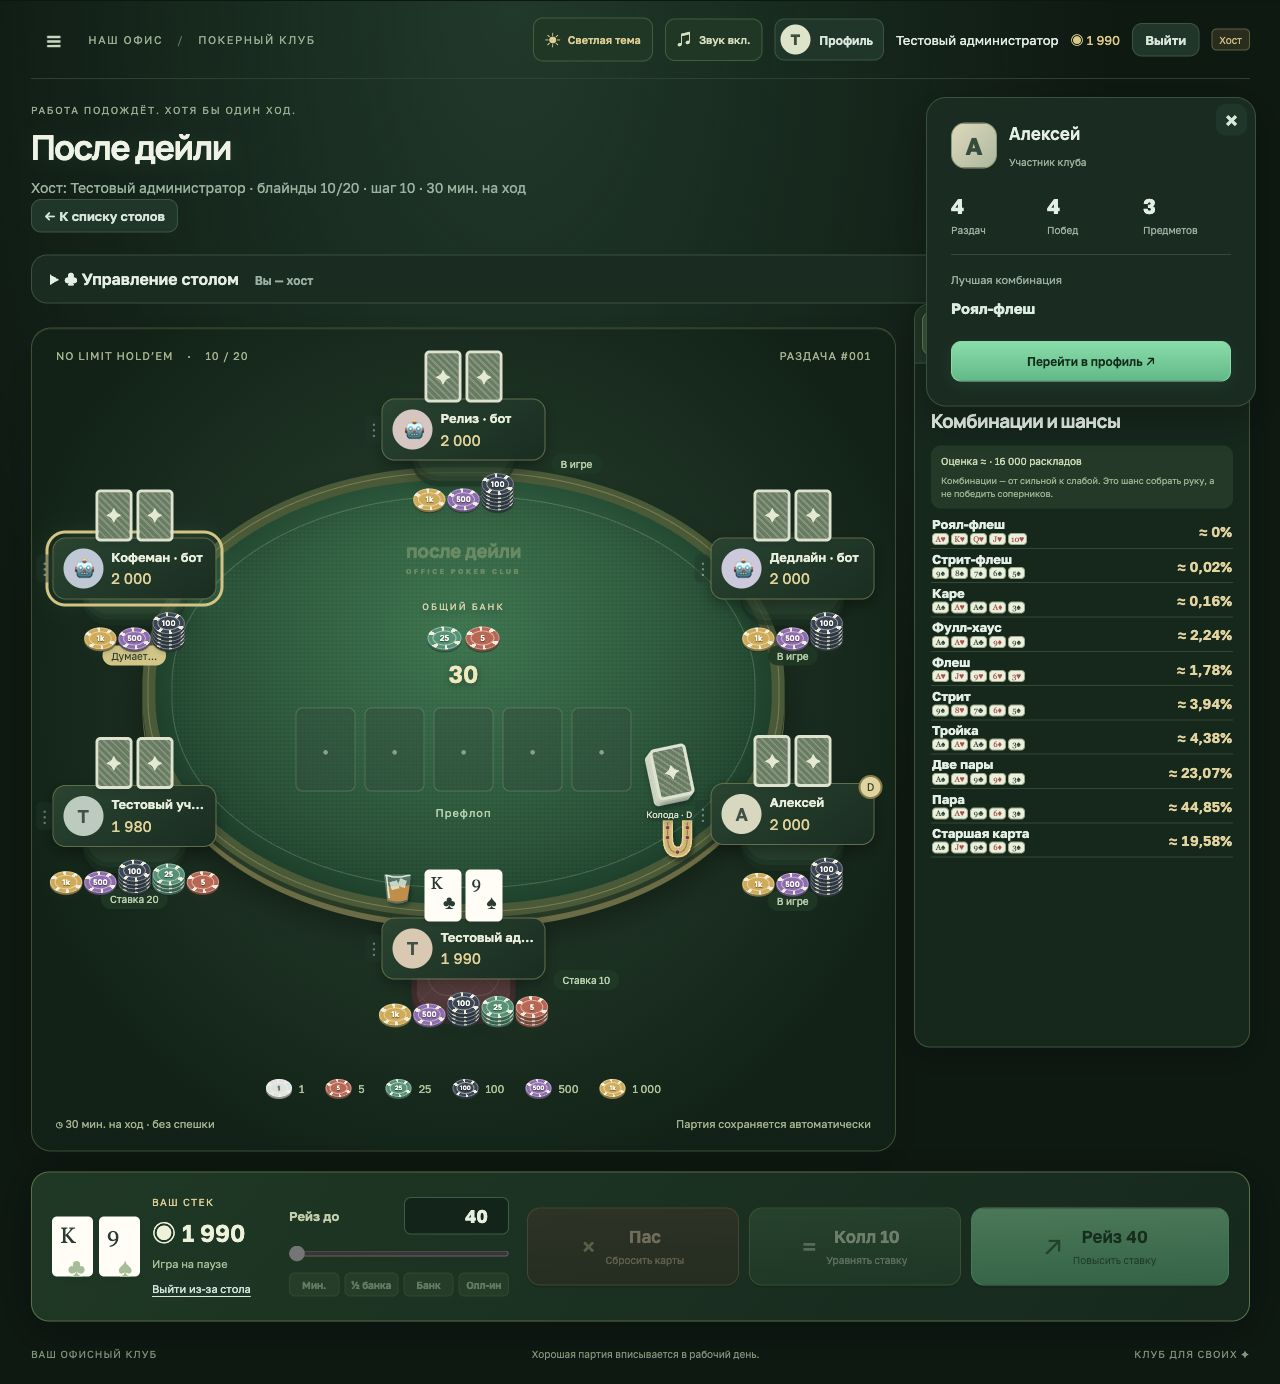
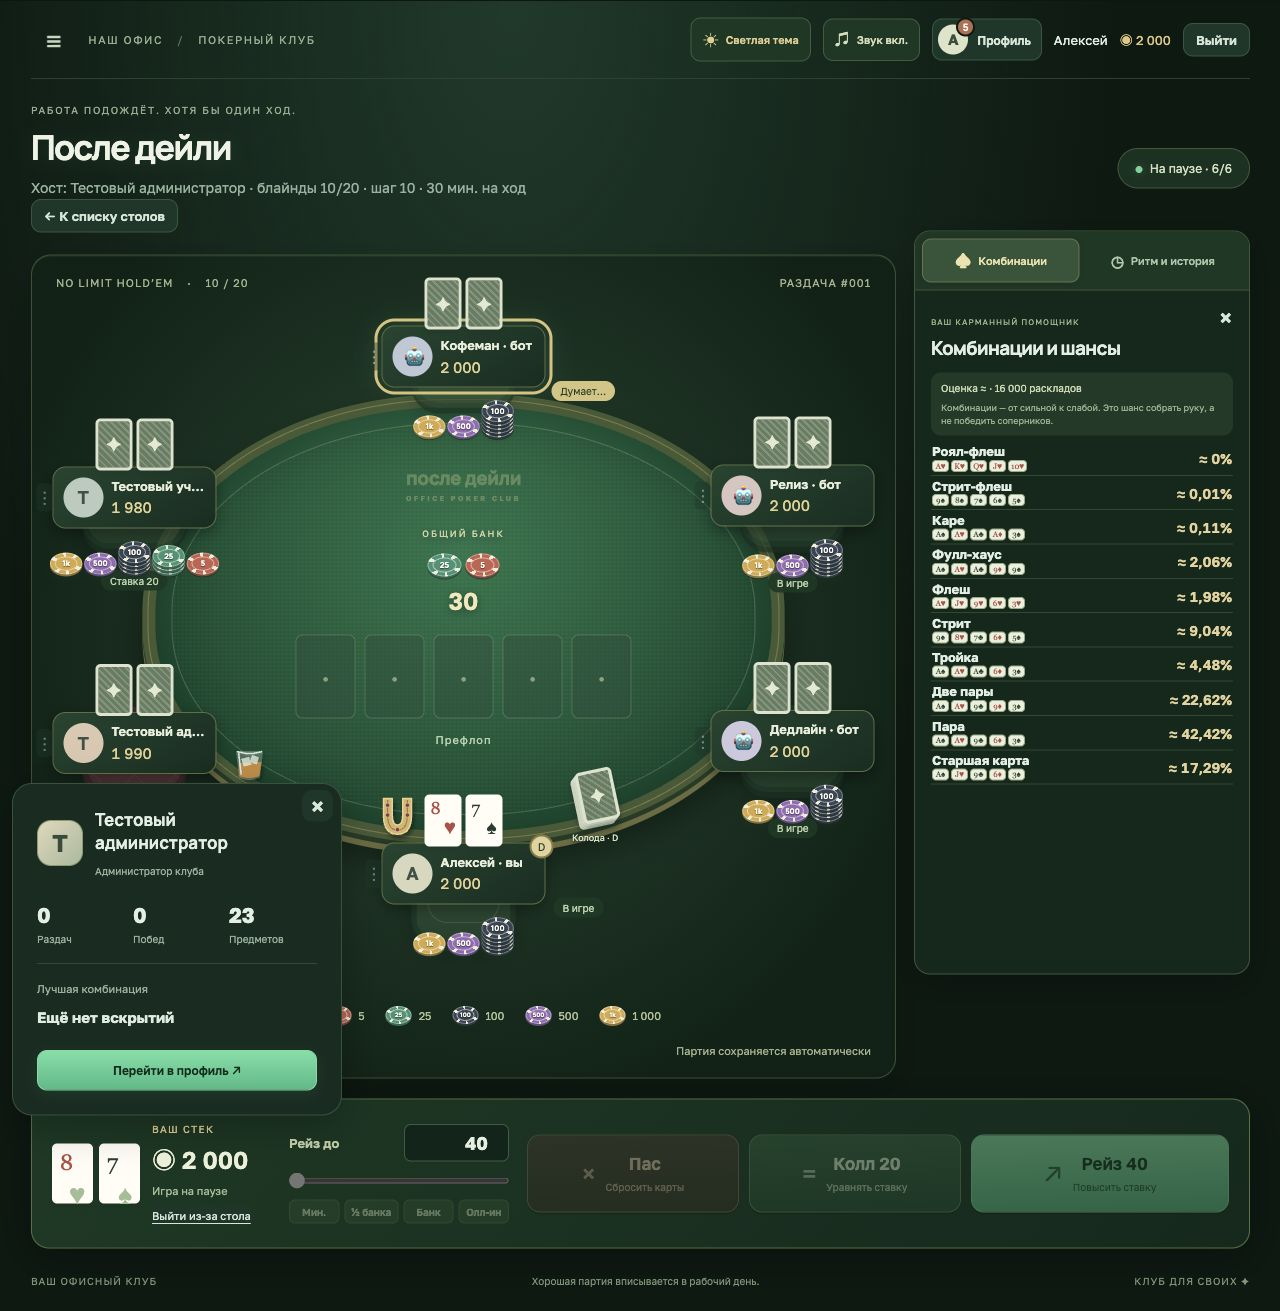
Anchor mini profiles beside their player cards

diff --git a/src/PublicProfile.tsx b/src/PublicProfile.tsx
@@ -1,4 +1,4 @@
-import { useEffect, useRef, useState } from "react";
+import { useEffect, useLayoutEffect, useRef, useState } from "react";
 import type { PublicPlayerProfile } from "../shared/profile";
 import { profileCombinations } from "../shared/profile";
 import { ProfileOverview, CombinationTable } from "./ProfileOverview";
@@ -84,8 +84,85 @@ export function MiniProfile({
   const { data, error } = usePublicProfile(id, request);
   const root = useRef<HTMLElement>(null),
     close = useRef<HTMLButtonElement>(null);
+  const [position, setPosition] = useState<{
+    left: number;
+    top: number;
+  } | null>(null);
+  useLayoutEffect(() => {
+    const trigger = document.getElementById(`player-profile-${id}`);
+    const anchor = trigger?.closest<HTMLElement>(".player");
+    const popup = root.current;
+    if (!anchor || !popup) {
+      onClose();
+      return;
+    }
+    const update = () => {
+      if (!anchor.isConnected) {
+        onClose();
+        return;
+      }
+      const card = anchor.getBoundingClientRect(),
+        box = popup.getBoundingClientRect();
+      const padding = 12,
+        gap = 10,
+        width = window.innerWidth,
+        height = window.innerHeight;
+      if (
+        card.bottom < padding ||
+        card.top > height - padding ||
+        card.right < padding ||
+        card.left > width - padding
+      ) {
+        onClose();
+        return;
+      }
+      const clamp = (value: number, max: number) =>
+        Math.max(padding, Math.min(value, max - padding));
+      let left = clamp(
+        card.left + (card.width - box.width) / 2,
+        width - box.width,
+      );
+      let top: number;
+      if (card.bottom + gap + box.height <= height - padding)
+        top = card.bottom + gap;
+      else if (card.top - gap - box.height >= padding)
+        top = card.top - gap - box.height;
+      else if (card.right + gap + box.width <= width - padding) {
+        left = card.right + gap;
+        top = clamp(
+          card.top + (card.height - box.height) / 2,
+          height - box.height,
+        );
+      } else if (card.left - gap - box.width >= padding) {
+        left = card.left - gap - box.width;
+        top = clamp(
+          card.top + (card.height - box.height) / 2,
+          height - box.height,
+        );
+      } else top = clamp(card.bottom + gap, height - box.height);
+      const next = { left: Math.round(left), top: Math.round(top) };
+      setPosition((previous) =>
+        previous?.left === next.left && previous.top === next.top
+          ? previous
+          : next,
+      );
+    };
+    update();
+    const observer = new ResizeObserver(update);
+    observer.observe(popup);
+    observer.observe(anchor);
+    const scene = anchor.closest(".table-scene");
+    if (scene) observer.observe(scene);
+    window.addEventListener("resize", update);
+    document.addEventListener("scroll", update, true);
+    return () => {
+      observer.disconnect();
+      window.removeEventListener("resize", update);
+      document.removeEventListener("scroll", update, true);
+    };
+  }, [id]);
   useEffect(() => {
-    close.current?.focus();
+    close.current?.focus({ preventScroll: true });
     const outside = (event: PointerEvent) => {
       if (!root.current?.contains(event.target as Node)) onClose();
     };
@@ -93,7 +170,9 @@ export function MiniProfile({
       if (event.key === "Escape") {
         event.stopPropagation();
         onClose();
-        document.getElementById(`player-profile-${id}`)?.focus();
+        document
+          .getElementById(`player-profile-${id}`)
+          ?.focus({ preventScroll: true });
       }
     };
     document.addEventListener("pointerdown", outside);
@@ -109,6 +188,11 @@ export function MiniProfile({
   return (
     <aside
       ref={root}
+      style={{
+        left: position?.left ?? 0,
+        top: position?.top ?? 0,
+        visibility: position ? "visible" : "hidden",
+      }}
       className="mini-profile club-panel"
       role="dialog"
       aria-modal="false"

diff --git a/src/profile.css b/src/profile.css
@@ -572,12 +572,10 @@
 }
 .mini-profile {
   position: fixed;
-  right: 24px;
-  top: 96px;
   z-index: 90;
   width: 330px;
   max-width: calc(100vw - 24px);
-  max-height: calc(100dvh - 115px);
+  max-height: calc(100dvh - 24px);
   overflow: auto;
   padding: 24px;
   box-shadow: 0 12px 40px #0004;
@@ -645,10 +643,4 @@
 .mini-profile > .primary {
   width: 100%;
   font-size: 12px;
-}
-@media (max-width: 760px) {
-  .mini-profile {
-    top: 82px;
-    right: 12px;
-  }
 }

diff --git a/README.md b/README.md
@@ -97,7 +97,7 @@ HOST=0.0.0.0 npm start
 
 Кнопки верхней панели сохраняют названия и места на всех страницах: «Все столы», «Инвентарь», «Магазин», «Аккаунты игроков» у администратора и профиль. Текущая страница отмечается приглушённой нажатой кнопкой, которая не переключает на другой раздел.
 
-Нажмите на плашку человека за столом, чтобы открыть **мини-профиль**: имя, число раздач, побед и предметов, лучшая собранная комбинация. Окно не уводит со стола; закрывается крестиком, Escape или кликом снаружи. Кнопка «Перейти в профиль» открывает полную статистику игрока: баланс, показатели, количество предметов каждой редкости и таблицу комбинаций. Чужие подарки, логин и управление инвентарём не передаются. Мини-профиль и полный профиль обновляют статистику каждые пять секунд. Звуки активного стола и кнопка быстрого возврата продолжают работать. Меню ⋮ с высадкой остаётся отдельным от плашки. У ботов профиля нет.
+Нажмите на плашку человека за столом, чтобы открыть **мини-профиль**: имя, число раздач, побед и предметов, лучшая собранная комбинация. Окно открывается рядом с выбранной плашкой: снизу, а при нехватке места — сверху или сбоку, с отступом от края экрана. Оно следует за плашкой при прокрутке и изменении размера стола; если плашка уходит за экран, окно закрывается. Закрыть его также можно крестиком, Escape или кликом снаружи. Кнопка «Перейти в профиль» открывает полную статистику игрока: баланс, показатели, количество предметов каждой редкости и таблицу комбинаций. Чужие подарки, логин и управление инвентарём не передаются. Мини-профиль и полный профиль обновляют статистику каждые пять секунд. Звуки активного стола и кнопка быстрого возврата продолжают работать. Меню ⋮ с высадкой остаётся отдельным от плашки. У ботов профиля нет.
 
 ![Мини-профиль участника за столом](docs/mini-profile-preview.png)
 
